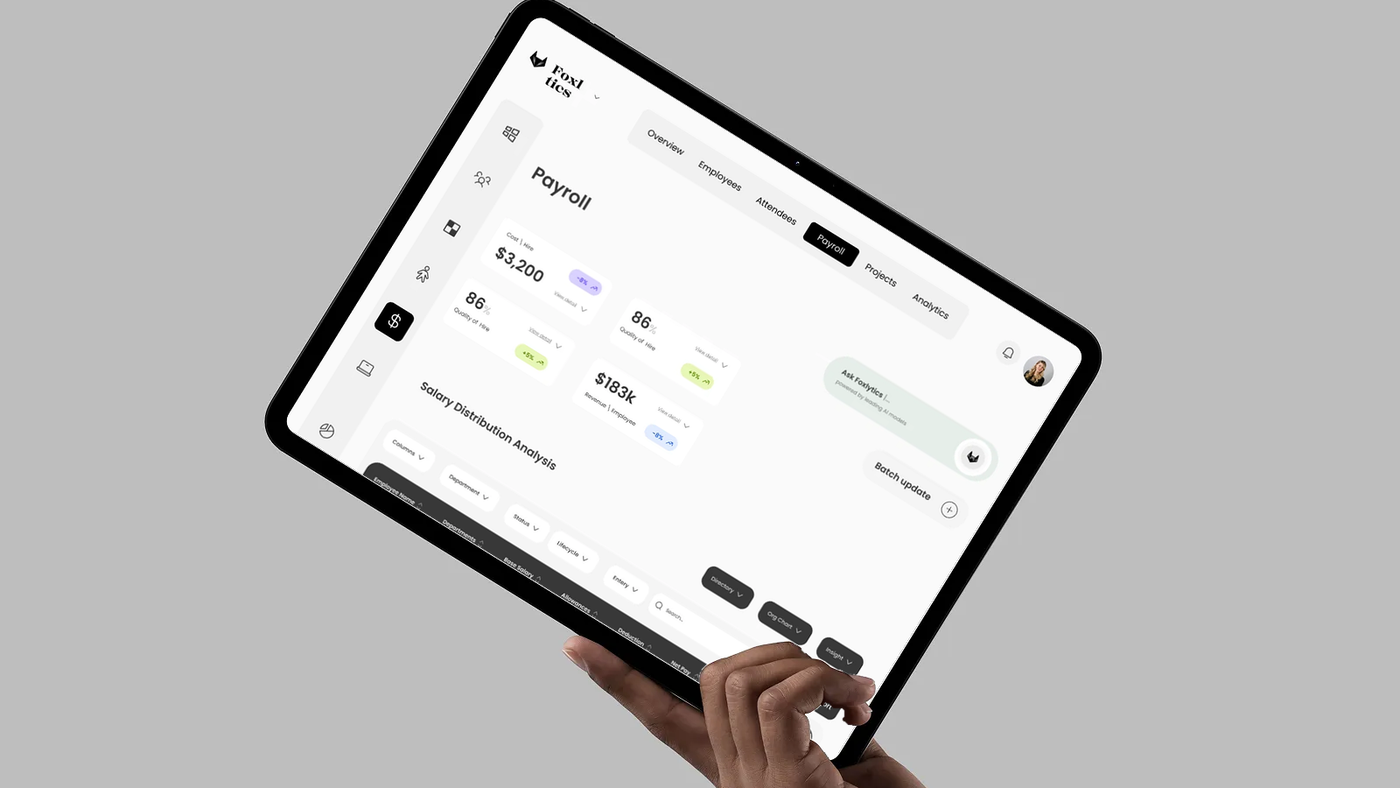
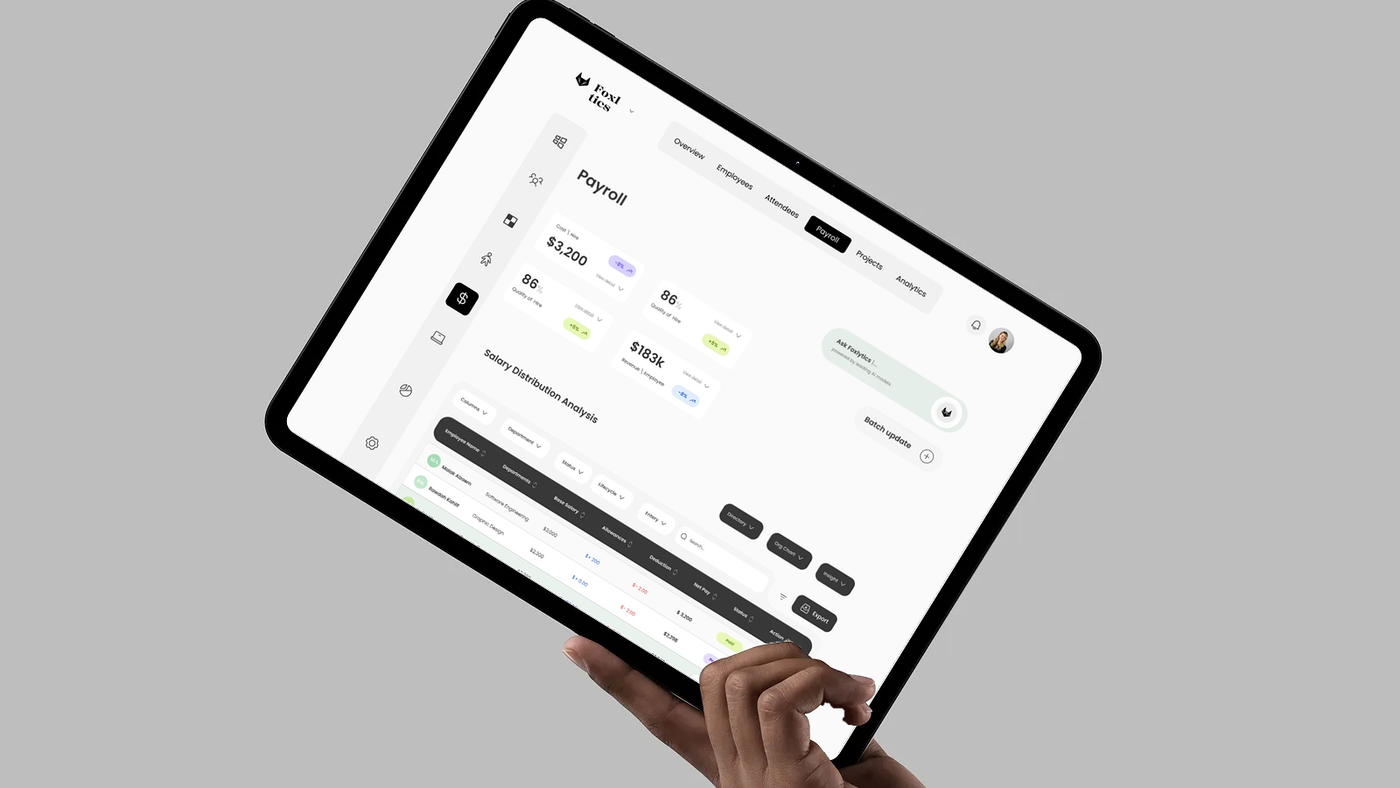
iPad-in-hand Payroll: from the top with the first two table rows visible
Claude-Session: https://claude.ai/code/session_01FdYAnoP1AuAPuCnLWf7gdc

diff --git a/behance-cover/mockups/set25.py b/behance-cover/mockups/set25.py
@@ -30,7 +30,9 @@ page = Image.open(I + PAGE).convert('RGB')
 # --- tilted iPad in a hand ---
 base = Image.open(I + '213.png').convert('RGB'); a = np.asarray(base).astype(int); g = a.mean(-1)
 Q = [(612.7, 144.9), (1240.6, 532.5), (950.2, 1003.0), (322.2, 615.4)]; R = 4 / 3
-band = page.crop(BOX)   # a 4:3 window of the page
+x0, y0, x1, y1 = BOX   # a 4:3 window of the page; parts outside the page are filled with its background
+band = Image.new('RGB', (x1 - x0, y1 - y0), page.getpixel((page.width // 2, page.height - 5)))
+band.paste(page.crop((max(x0, 0), max(y0, 0), min(x1, page.width), min(y1, page.height))), (max(-x0, 0), max(-y0, 0)))
 src = band.resize((3200, 2400), Image.LANCZOS)
 sm = Image.new('L', src.size, 0); ImageDraw.Draw(sm).rounded_rectangle((0, 0, src.width - 1, src.height - 1), 70, fill=255)
 quad = Image.new('L', base.size, 0); ImageDraw.Draw(quad).polygon(Q, fill=255); quad = np.asarray(quad) > 0
